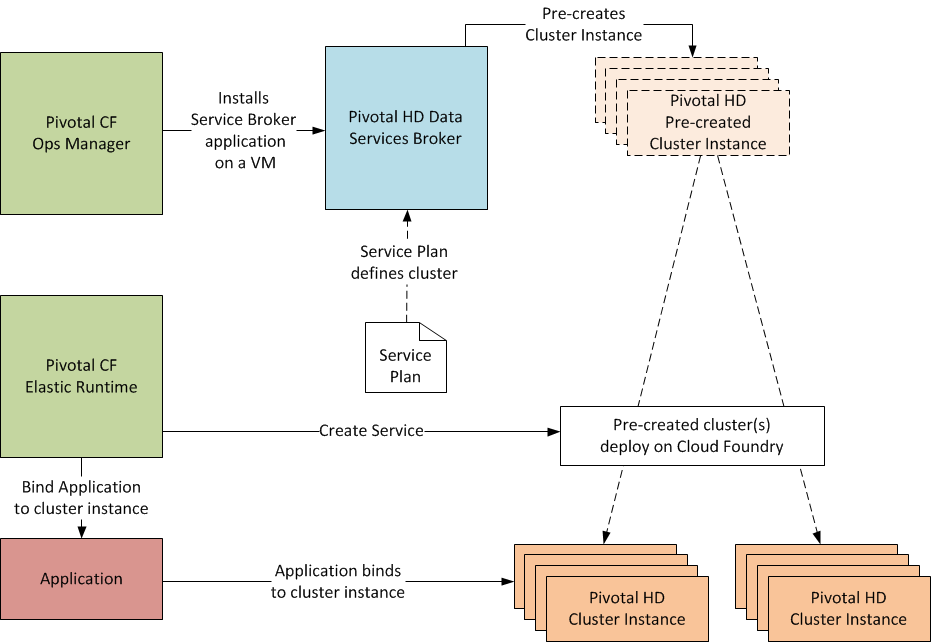
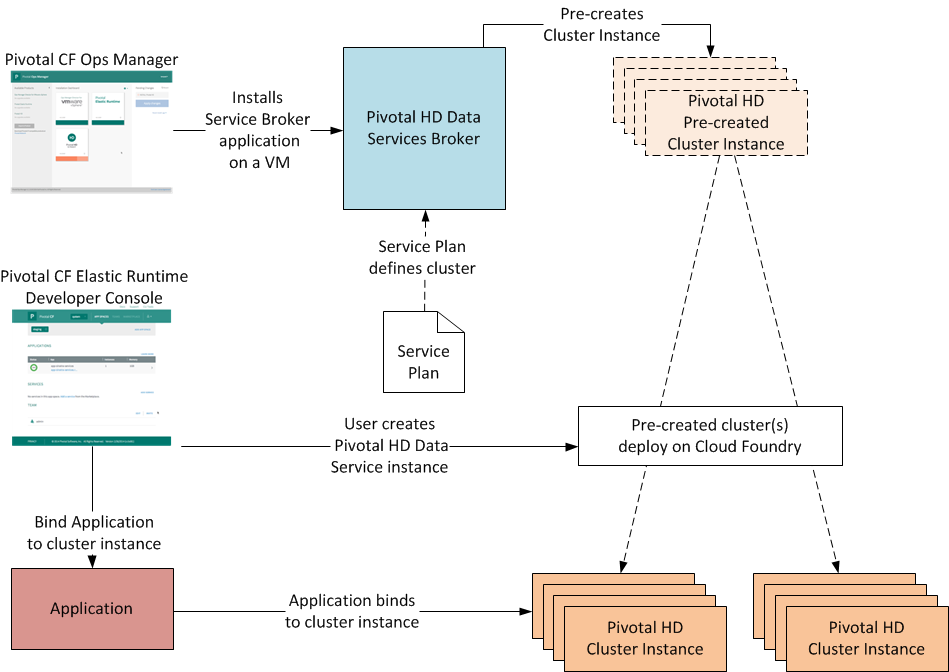
add graphics, fix terminology

diff --git a/service_plans.md b/service_plans.md
@@ -23,7 +23,7 @@ To create a service plan:
                 <p>Configure the following display options for your Pivotal HD cluster plans. This information displays in the Pivotal CF Console and Command-line Interface.</p>
 						
                 <table
-                    frame="void"
+                    frame="void" rules="all"
                     width="783">
                     <caption>Informational Display</caption>
                     <col
@@ -63,9 +63,9 @@ To create a service plan:
                     </tbody>
                 </table>
             </li>
-            <li>Enter the following values for multi-tenant configuration. The values are informational only ?? <table
-                    frame="void">
-                    <caption>Multi-tenant configuration</caption>
+            <li>Enter the following values for cost display. The values are informational only.<table
+                    frame="void" rules="all">
+                    <caption>Cost Information</caption>
                     <col
                         width="33%" />
                     <col
@@ -94,7 +94,7 @@ To create a service plan:
                 </table>
             </li>
             <li>Enter the following values to define your cluster instances:<table
-                    frame="void">
+                    frame="void" rules="all">
                     <caption>Cluster Instances</caption>
                     <col
                         width="33%" />
@@ -129,7 +129,7 @@ To create a service plan:
                 </table></li>
             <li>Fill in the remaining fields to define the cluster plan. The cluster plan defines the nodes and components of the Pivotal HD clusters that Pivotal HD Data Services creates. <p>For more information about Pivotal HD and its components, see the <a
                         href="http://pivotalhd.docs.gopivotal.com/index.html">Pivotal HD Documentation</a> .</p><table
-                    frame="void">
+                    frame="void" rules="all">
                     <caption>Cluster Plan Configuration</caption>
                     <col
                         width="33%" />

diff --git a/data_service.md b/data_service.md
@@ -24,6 +24,10 @@ For more information, see [Getting Started with the Developer Console](http://do
 
 If you need to access a virtual machine in your Pivotal HD cluster or if you need to access the virtual machine that runs Pivotal HD Data Services, you can use Pivotal CF Ops Manager to display the necessary credentials and URLs. Ops Manager also displays status of each virtual machine and enables you to download its log files. 
 
+**Pivotal CF Developer Console**
+
+![Pivotal CF Developer Console](/images/dev_console_large.png "Pivotal CF Developer Console")
+
 ##To view the status of the virtual machines in a cluster:
 
 1. Use a Web browser to open the Pivotal CF Ops Manager application. 
@@ -69,6 +73,7 @@ If you need to access a virtual machine in your Pivotal HD cluster or if you nee
 #Binding an Application to a Pivotal HD Cluster Instances
 
 The process of binding an application to a service automatically populates a set of environment variables. These variables define credentials, URLs for services and other configurations. When you use Pivotal CF to bind an application to a Pivotal HD service, these variables are populated automatically. When the application moves into a production phase, you can easily bind the application to an external instance of Pivotal HD by setting new values for these variables. Pivotal CF can also automatically create these bindings. See [Bind a Service](http://docs.gopivotal.com/pivotalcf/devguide/services/bind-service.html).
+
 
 ??insert list of env vars
 

diff --git a/overview.md b/overview.md
@@ -11,6 +11,8 @@ Pre-created cluster instances are made available as "hot standbys". Pivotal HD D
 ?? Applications that require "elastic" resources can also use Pivotal HD Data Services to quickly spin-up a cluster and then destroy it when it is no longer needed so that its resources can be redeployed or shutdown to save power. 
 
 
-The following image shows the work flow for installing Pivotal HD Data Services and creating clusters:
+Figure 1 shows the work flow for installing Pivotal HD Data Services and creating clusters:
+
+**Figure 1. Pivotal HD Data Services Work Flow**
 
 ![Data Service Work Flow](/images/data_service.png "Data Service Work Flow")

diff --git a/installation.md b/installation.md
@@ -20,6 +20,9 @@ Installation of Pivotal HD Data Services requires the following:
 	?? <p><a href="http://network.gopivotal.com/">The Pivotal Network</a></p>
 </li>
 <li>Use a Web browser to open the Pivotal Ops Manager application. (This application is part of your Pivotal Cloud Foundry installation.)
+<p><strong>Pivotal CF Ops Manager</strong></p>
+<img src="images/ops_manager_large.png" align="left/">
+
 </li>
 
 <li> Click the <strong>Import a Product</strong> button.

diff --git a/index.md b/index.md
@@ -12,6 +12,8 @@ The documentation contains the following topics:
 * [Using the Pivotal HD Data Service](data_service.html)
 
 
+For more information on installing and using Pivotal HD, see the 
+[Pivotal HD Documentation](../pivotalhd/index.html).
 
 
 
